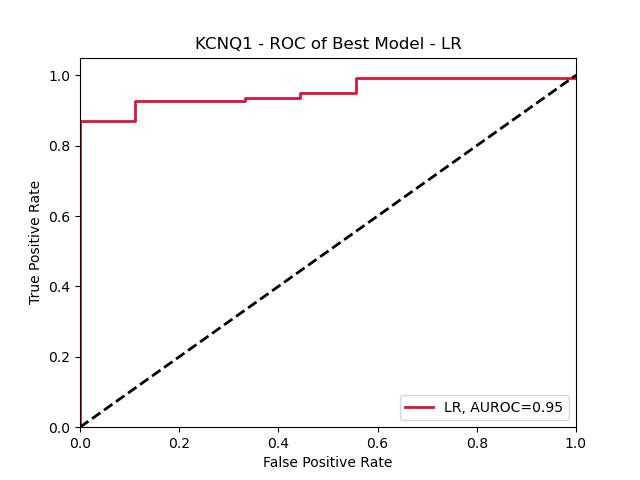
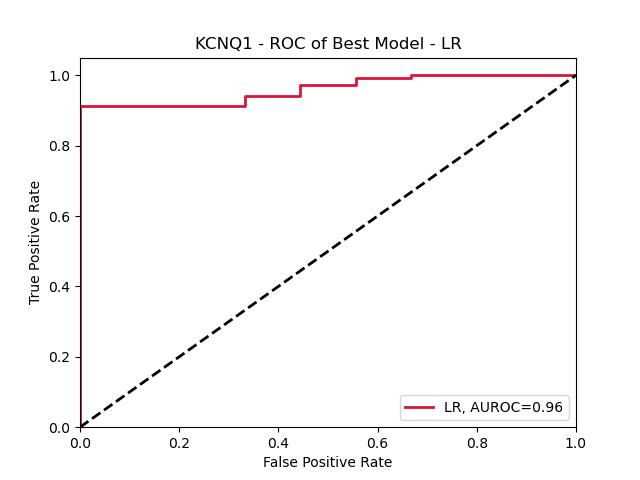
making progress

Changed region(s): [[0.125, 0.1562, 0.5625, 0.2812], [0.625, 0.1562, 0.9062, 0.1875]]

diff --git a/main.py b/main.py
@@ -19,70 +19,38 @@ class RunStudy:
         self.modeling_approach = modeling_approach
         self.what_to_run = what_to_run
         self.iterations = iterations
-        self.best_cross_validation_models = {} #this keeps a dictionary of the best model obtained for the cross-validation of the given seed. Key: seed, Value: best_model
-
+        self.best_models_from_cross_validation = {} #this keeps a dictionary of the best model obtained for the cross-validation of the given seed. Key: seed, Value: best_model
 
         self.run_evaluate_with_various_seeds(self.gene_name, self.what_to_run, self.modeling_approach, self.iterations)
         make_figures.MakeFigures(self.gene_name, self.median_model, self.data_median_model, self.results_df, self.modeling_approach)
 
-             
-    def get_prepared_data(self, gene_name, seed):
-        """Parameters:
-        <gene_name> a string, either 'ryr2', 'kcnh2', 'kcnq1', or 'scn5a'"""
-
-        all_features =['AA position', 'Conservation Score', 'LQTS/GnomAD','Original','Change','Functional Domain']
-        #Prepare data and split in train and test for given gene_name
-        data = prepare_data.PrepareData(gene_name, all_features, seed)
-        return data
-
-    def run_evaluate(self, data, what_to_run, modeling_approach, seed):
-        """Parameters:
-        <data>: data
-        <what_to_run> a string, one of:
-            'grid_search': this will do a grid search over different model setups
-                
-        <modeling_approach>: a string, 'LR' for logistic regression"""
-        
-        print('\n*** Running ',modeling_approach,'***')
-        if what_to_run == 'grid_search':
-            run = run_models.RunModels(modeling_approach, data, what_to_run, seed)
-            evaluate = evaluate_models.EvaluateModels(modeling_approach, data, run.best_model, seed)
-            self.best_cross_validation_models[seed] = run.best_model
-        
-        return evaluate
-
     def run_evaluate_with_various_seeds(self, gene_name, what_to_run, modeling_approach, iterations) -> pd.DataFrame:
         """This runs the run_evaluate method multiple times with different seeds in order to get the results for various train/test splits. It returns a DataFrame with the performance metrics and the hyperparameters picked for the given model."""
+        all_features =['AA position', 'Score', 'Signal To Noise','Original','Change','Functional Domain']
         results_dict_list = []
-        for i in range(0, iterations):
-            seed = np.random.choice(np.arange(1, 270620), replace=False)
-            data = self.get_prepared_data(gene_name, seed)  
-            evaluate = self.run_evaluate(data, what_to_run, modeling_approach, seed)
+        unique_seeds = np.random.choice(np.arange(1, 270600), size=iterations, replace=False)
+        for i, seed in enumerate(unique_seeds):
+            data = prepare_data.PrepareData(gene_name, all_features, seed) #Get data object with train/test splits for given seed
+            print('\n*** Running ', modeling_approach,'***')
+            run = run_models.RunModels(modeling_approach, data, what_to_run, seed) 
+            evaluate = evaluate_models.EvaluateModels(modeling_approach, data, run.best_model, seed)
+            self.best_models_from_cross_validation[seed] = run.best_model
             print(evaluate.results_dict)
             results_dict_list.append(evaluate.results_dict)
 
         results_df = pd.DataFrame.from_dict(results_dict_list).sort_values(by='Test AUC', ascending=False)
+        print(results_df)
         self.results_df = results_df
+        #Get seed for the best and median test AUC models to get the models and the splits used for their generation
         seed_median_model = results_df.iloc[len(results_df)//2, 0]
         seed_best_model = results_df.iloc[0, 0]
-        self.median_model = self.best_cross_validation_models[seed_median_model]
-        self.best_model = self.best_cross_validation_models[seed_best_model]
+        self.median_model = self.best_models_from_cross_validation[seed_median_model]
+        self.best_model = self.best_models_from_cross_validation[seed_best_model]
         self.data_best_model = self.get_prepared_data(self.gene_name, seed_best_model)
         self.data_median_model = self.get_prepared_data(self.gene_name, seed_median_model)
 
 
-
-    # seed = np.random.randint(low=1, high=280293)
-    # data = get_prepared_data('KCNQ1', seed) 
-    # run_evaluate(data, 'grid_search', 'LR', seed)
-    # run_evaluate(data, 'grid_search', 'DecisionTree', seed)
-    # run_evaluate(data, 'grid_search', 'RandomForest', seed)
-    # run_evaluate(data, 'grid_search', 'GradientBoosting', seed)
-
-
 RunStudy('KCNQ1', 'grid_search', 'LR', iterations=10)
+# RunStudy('MYH7', 'grid_search', 'LR', iterations=100)
+# RunStudy('RYR2', 'grid_search', 'LR', iterations=100)
 
-
-
-#run_evaluate_with_loop('KCNQ1', 'grid_search', 'DecisionTree', 500)
-# run_evaluate_with_loop('KCNQ1', 'grid_search', 'RandomForest', 5)

diff --git a/src/make_figures.py b/src/make_figures.py
@@ -36,10 +36,11 @@ class MakeFigures:
 
     def plot_roc_curve(self):
         #ROC curve for model evaluation
+        plt.clf()
         model = self.model
         pred_probs = model.decision_function(self.data.X_test)
         true_labels = self.data.y_test
-        fpr, tpr, _ = sklearn.metrics.roc_curve(true_labels, pred_probs,pos_label = 1)
+        fpr, tpr, _ = sklearn.metrics.roc_curve(true_labels, pred_probs, pos_label = 1)
         roc_auc = sklearn.metrics.auc(fpr, tpr)
         line, = plt.plot(fpr, tpr, color=self.color, lw=self.lw, linestyle = self.linestyle)
 
@@ -48,15 +49,15 @@ class MakeFigures:
         plt.ylim([0.0, 1.05])
         plt.xlabel('False Positive Rate')
         plt.ylabel('True Positive Rate')
-        plt.title(f'{self.gene_name} - ROC of Best Model - {self.modeling_approach}')
-        plt.legend([line], [f'{self.modeling_approach}, AUROC=%0.2f' % roc_auc,], loc='lower right')
-        plt.savefig(os.path.join(self.save_dir, self.gene_name+f'_Best_Model_{self.modeling_approach}_ROC_Curve.jpg'))
-        plt.show()
+        plt.title(f'{self.gene_name} - ROC of Median Model - {self.modeling_approach}')
+        plt.legend([line], [f'{self.modeling_approach}, AUC=%0.4f' % roc_auc,], loc='lower right')
+        plt.savefig(os.path.join(self.save_dir, self.gene_name+f'_Median_Model_{self.modeling_approach}_ROC_Curve.jpg'))
         plt.close()
 
         #ROC curve for algorithm evaluation
         
     def plot_performance_hist(self):
+        plt.clf()
         results_df = self.results_df
         sns.histplot(data=results_df, x='Test AUC')
         plt.xlabel('Test AUC')

diff --git a/src/run_models.py b/src/run_models.py
@@ -1,3 +1,4 @@
+import sklearn
 from sklearn.ensemble import GradientBoostingClassifier, RandomForestClassifier
 from sklearn.linear_model import LogisticRegression
 from sklearn.metrics import roc_auc_score
@@ -88,7 +89,7 @@ class RunModels(object):
 
         # Perform GridSearchCV
         gs.fit(self.data.X_train, self.data.y_train)
-        print('Best K-fold Auc:', gs.best_score_) #this is the best model avg. auc performance across the 10 folds. The model with this score is used to get the best_params_
+        print('Best K-fold Auc:', gs.best_score_) #this is the avg. auc performance across the 10 folds of the best model. The model with this score is used to get the best_params_
         print('Best LR Params:', gs.best_params_)
         self.best_model = gs #save GridSearch object
 

diff --git a/data/convert_to_csv.py b/data/convert_to_csv.py
@@ -40,6 +40,7 @@ def convert_signal_to_noise_to_csv(gene_name):
     # Read the data from the specified sheet
     df = pd.read_excel(config.data + f'/{gene_name}/1. Raw/{gene_name}_concise_UpdatedGnomAD.xlsx', sheet_name='Signal to Noise @ AA position')
     df = df.iloc[1:, :]
+    df.columns.values[1] = "Signal To Noise"
     df.to_csv(config.data + f'/{gene_name}/1. Raw/{gene_name}_Signal_to_Noise.csv', index=False)
 
     return
@@ -50,7 +51,7 @@ def convert_evolutionary_score_to_csv(gene_name):
     df.to_csv(config.data + f'/{gene_name}/1. Raw/{gene_name}_Conservation_Score.csv', index=False)
 
 
-gene_list = {'MYH7', 'RYR2'}
+gene_list = {'KCNQ1', 'MYH7', 'RYR2'}
 
 for gene in gene_list:
     convert_variants_to_csv(gene)

diff --git a/data/data_wrangling.py b/data/data_wrangling.py
@@ -10,7 +10,9 @@ pd.set_option('display.max_columns', None)
 AMINO_ACIDS = ['A', 'C', 'D', 'E', 'F', 'G', 'H', 'I', 'K', 'L',
                'M', 'N', 'P', 'Q', 'R', 'S', 'T', 'V', 'W', 'Y', 'X']
 
-gene_name = 'RYR2'
+gene_name = 'KCNQ1'
+# gene_name = 'MYH7'
+# gene_name = 'RYR2'
 
 def check_symbols(df, key):
         """Check symbols so that everything in the Original and Change columns

diff --git a/data/prepare_data.py b/data/prepare_data.py
@@ -25,7 +25,6 @@ class PrepareData(object):
         X = df[all_features]
         X = pd.get_dummies(X, drop_first=True, dtype=int)
         #self.one_hot_encoding_top_n(X, ['Original', 'Change'], 5)
-        # print(X.head(10))
         y = df['Label']
 
         
